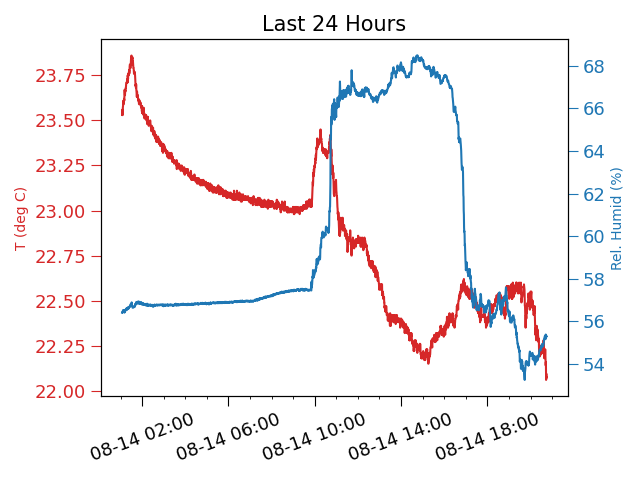
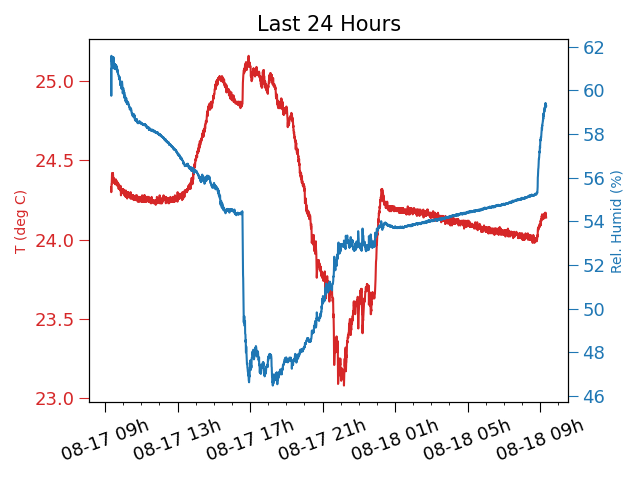
Adjusted analysis plot axis styles

diff --git a/analysis.py b/analysis.py
@@ -54,7 +54,7 @@ def subplot_env(df, mask, title=''):
 
     ax.plot(df['datetime'][mask], df['temp'][mask], color='tab:red', label='T (deg C)')
     ax.set_ylabel('T (deg C)', color='tab:red')
-    ax.xaxis.set_major_formatter(dates.DateFormatter('%m-%d %H:%M'))
+    ax.xaxis.set_major_formatter(dates.DateFormatter('%m-%d %Hh'))
     ax.tick_params(axis='x', labelrotation=20)
     ax.tick_params(axis='y', color='tab:red', labelcolor='tab:red')
     ax.tick_params(axis='both', labelsize=13)
@@ -80,8 +80,8 @@ def plot_env_data(df):
     last6 = df['datetime'] >= df['datetime'].iloc[-1] - np.timedelta64(6, 'h')
 
     fig, ax, ax2 = subplot_env(df, last72, title="Last 72 Hours")
-    ax.xaxis.set_major_locator(dates.HourLocator(interval = 6))
-    ax.xaxis.set_minor_locator(dates.HourLocator(interval = 2))
+    ax.xaxis.set_major_locator(dates.HourLocator(interval = 12))
+    ax.xaxis.set_minor_locator(dates.HourLocator(interval = 4))
     plt.savefig('/home/meyer/readtemp/web/last72.png', dpi=100)
 
     fig, ax, ax2 = subplot_env(df, last24, title='Last 24 Hours')
